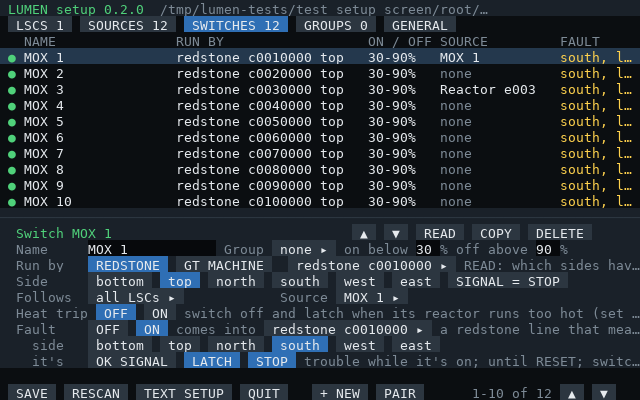
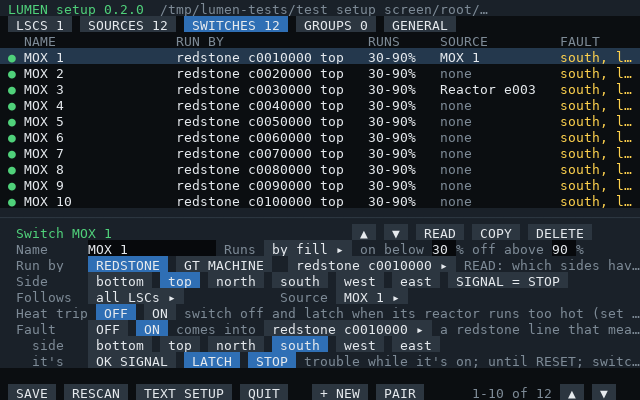
Always-on switches; POWER in sections by group
- always = true on a switch: no marks; ON / OFF on the screen; faults and
  heat trips still stop it (a breeder that should never stop).
- POWER with groups: each group's line with its members under it, then
  "Not in a group". Members say STANDBY and "standing by: 1 of 4 needed".
- lumen-setup: Runs ▸ picks by fill, always, or a group; always and a
  group drop the switch's unused marks; ADD EVERY SWITCH skips always-on
  switches.

Changed region(s): [[0.3438, 0.6, 0.9062, 0.66], [0.5625, 0.09, 0.6875, 0.12]]

diff --git a/docs/setup.md b/docs/setup.md
@@ -50,11 +50,13 @@ LSC or generator reports, to check the adapters are connected.
   - time to full or empty, as the LSC itself works it out
   - the net over 5 minutes and over 1 hour, passive loss, and maintenance status
   - **a fill history chart** in whatever rows are left (one sample every 30 s, the last 80 minutes)
-- **POWER** (with sources or switches): a line per [group](#groups) (how many run and are needed; tap it for its
-  page), then each switch with its `source`, as **TILES** or **ROWS** (tap to choose; kept across restarts; at
-  first, tiles when there are 4 or more and they all fit). Each says ON, OFF, **FAULT** or **TRIP**; what its source
+- **POWER** (with sources or switches): each switch with its `source`, as **TILES** or **ROWS** (tap to choose;
+  kept across restarts; at first, tiles when there are 4 or more and they all fit). With [groups](#groups), in
+  sections: each group's line (how many run and are needed; tap it for its page) with its members under it, then
+  **Not in a group** (switches always on or on their own marks, and sources with no switch). Each says ON, OFF, **FAULT** or **TRIP**; what its source
   is doing (running or idle, EU/t); a reactor's heat, on a bar that ends at its [heat trip](#heat-trips); why and for
-  how long; **AUTO / ON / OFF**, with **RESET** for a latched fault or a trip. A tile's title turns red for
+  how long; **AUTO / ON / OFF** (**ON / OFF** for one that's always on), with **RESET** for a latched fault or a
+  trip. A tile's title turns red for
   trouble, readable across the room. When the switch has been off for 10 s and its source still makes power (wired
   wrong?), it says **STILL RUNNING** in red. Sources no switch names get a tile or row of their own.
 - **Alerts:** bad ones first, each with how long it has lasted. They clear themselves a minute after the
@@ -90,7 +92,7 @@ On a tier 2 screen, panels keep the essentials:
 |---|---|
 | **LSCS** | Name it |
 | **SOURCES** | Show a GT machine or not; name it (reactors always show); warn when it stops (**always on**) |
-| **SWITCHES** | Change it: name, **Group** or marks, **REDSTONE** (block, side, **SIGNAL = STOP**) or **GT MACHINE**, the LSC it follows, its source, its [heat trip](#heat-trips), its [fault input](#fault-inputs). **▲ ▼** move it (the order on the main screen), **READ**, **+ NEW**, **COPY**, **DELETE**, **PAIR** |
+| **SWITCHES** | Change it: name, **Runs** (by fill, with its marks; always; or a group), **REDSTONE** (block, side, **SIGNAL = STOP**) or **GT MACHINE**, the LSC it follows, its source, its [heat trip](#heat-trips), its [fault input](#fault-inputs). **▲ ▼** move it (the order on the main screen), **READ**, **+ NEW**, **COPY**, **DELETE**, **PAIR** |
 | **GROUPS** | Change it: name, **Rotate**, the LSC it follows, its steps (**+ STEP**, **REMOVE**). **+ NEW**, **ADD EVERY SWITCH**, **DELETE** |
 | **GENERAL** | Alert levels, beep, LENS, start on boot; below, the warnings |
 
@@ -123,7 +125,9 @@ source, a group with no members or with steps that run more than it has.
 ## Switches
 
 A switch turns generators **on when the LSCs fall below one mark and off above another** (30% and 90%, say),
-and leaves them alone in between so they don't flicker. It's either:
+and leaves them alone in between so they don't flicker. Or it's **always on** (`always = true`, for a breeder
+that should never stop): no marks, **ON / OFF** on the screen, and faults and [heat trips](#heat-trips) still
+stop it. Or a [group](#groups) runs it. It's either:
 
 - **A redstone signal** from a Redstone I/O block (or a redstone card), on one side. Wire it to whatever runs
   the generators: an SFM setup that runs a vacuum reactor, a reactor's redstone port, a machine's enable.

diff --git a/docs/configuration.md b/docs/configuration.md
@@ -57,6 +57,7 @@ control = {
   { name = "LFTR", machine = "a1b2c3d4", lsc = "Main", onBelow = 50, offAbove = 95 },
   { name = "MOX 1", redstone = "3f2a0000", side = "top", onBelow = 30, offAbove = 90, source = "Reactor 3f2a",
     heatTrip = 90, fault = { redstone = "9c1e0000", side = "north", latch = true } },
+  { name = "Breeder", redstone = "7b3c0000", side = "top", always = true, source = "Reactor 7b3c", heatTrip = 75 },
 },
 ```
 
@@ -68,7 +69,8 @@ control = {
 | `side` | | Redstone: `"bottom"`, `"top"`, `"north"`, `"south"`, `"west"`, `"east"` (or 0-5) |
 | `invert` | `false` | Redstone: a signal means off |
 | `strength` | `15` | Redstone: the signal's strength when on |
-| `onBelow`, `offAbove` | | On below this % full, off above this % (optional in a group) |
+| `onBelow`, `offAbove` | | On below this % full, off above this % (none with `always` or `group`) |
+| `always` | `false` | Always on instead: no marks; **ON / OFF** on the screen, and faults and heat trips still stop it (a breeder, say) |
 | `group` | | Run by a [group](#groups) instead of its own marks |
 | `lsc` | all LSCs | Follow one LSC, by name |
 | `source` | | The source it switches: shown on the switch's row (not a row of its own); warns when on and it isn't running, or off and it is |

diff --git a/CHANGELOG.md b/CHANGELOG.md
@@ -15,8 +15,11 @@ versions follow [Semantic Versioning](https://semver.org/).
   A bad alert; LENS gets `lumen_switch_trip`.
 - **Groups** (`groups`, and `group` on a switch): a ladder of steps runs as many members as the fill needs; the
   least run time starts first (`rotate`), and a member that's faulted, tripped or set by hand is skipped. A line
-  per group on the main screen; tap it for its page (the ladder and who starts next). LENS gets
+  per group on the main screen with its members under it ("Not in a group" after); tap it for its page (the
+  ladder and who starts next). LENS gets
   `lumen_group_needed` and `lumen_group_running`.
+- **Always-on switches** (`always = true`): no marks, ON / OFF on the screen; faults and heat trips still stop it
+  (a breeder that should never stop). `lumen-setup`'s **Runs ▸** picks by fill, always, or a group.
 - **`lumen-setup`: PAIR** runs each redstone switch alone, after explaining and a START, to find which reactor it
   runs (crossed wiring, blocks that start nothing, and switches with a fault on are said), then puts every output
   back; APPLY sets the sources. **▲ ▼** order the switches (the order on the main screen), a **GROUPS** tab, and
